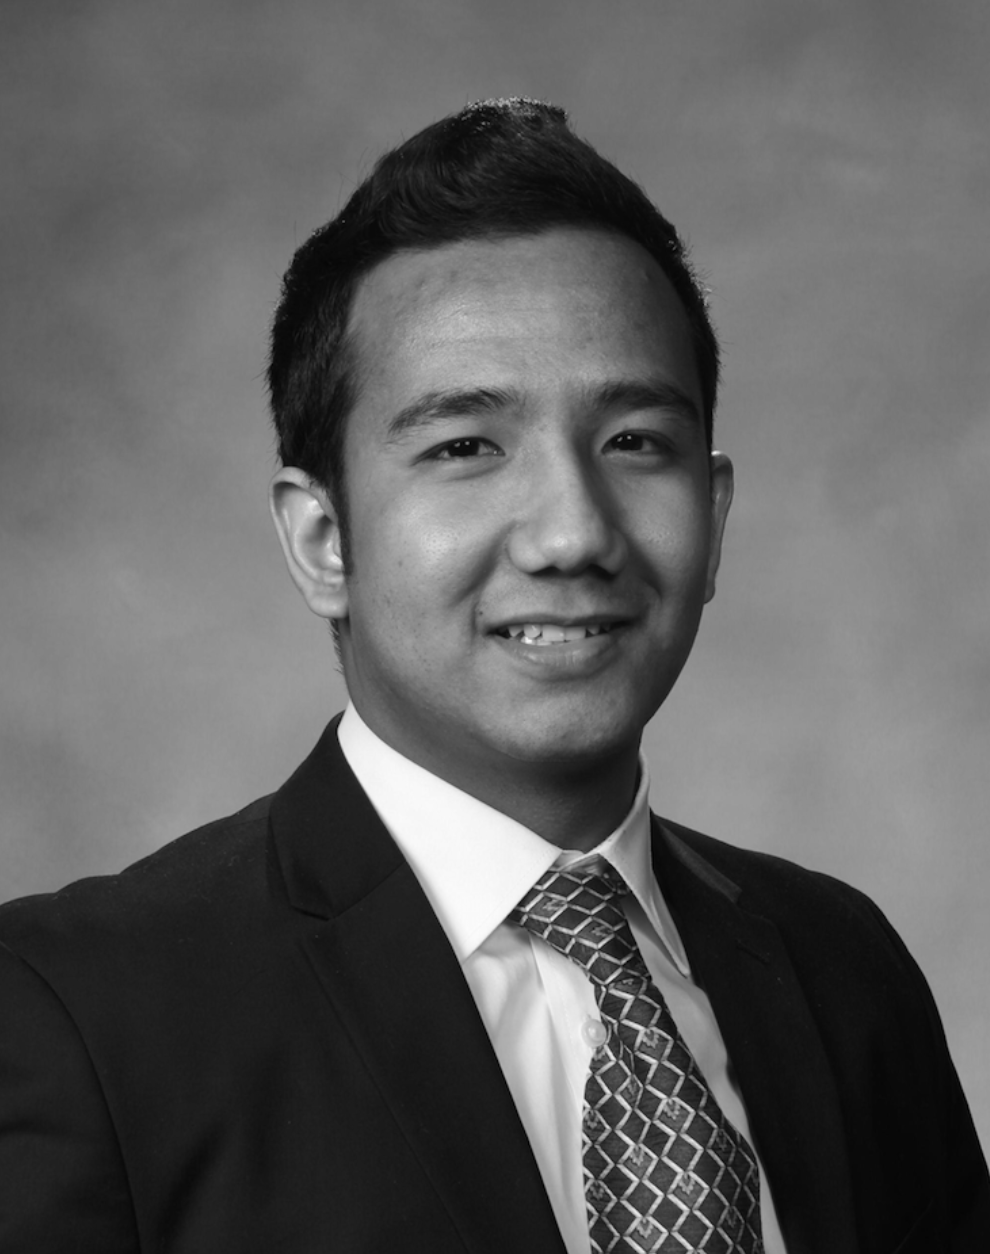
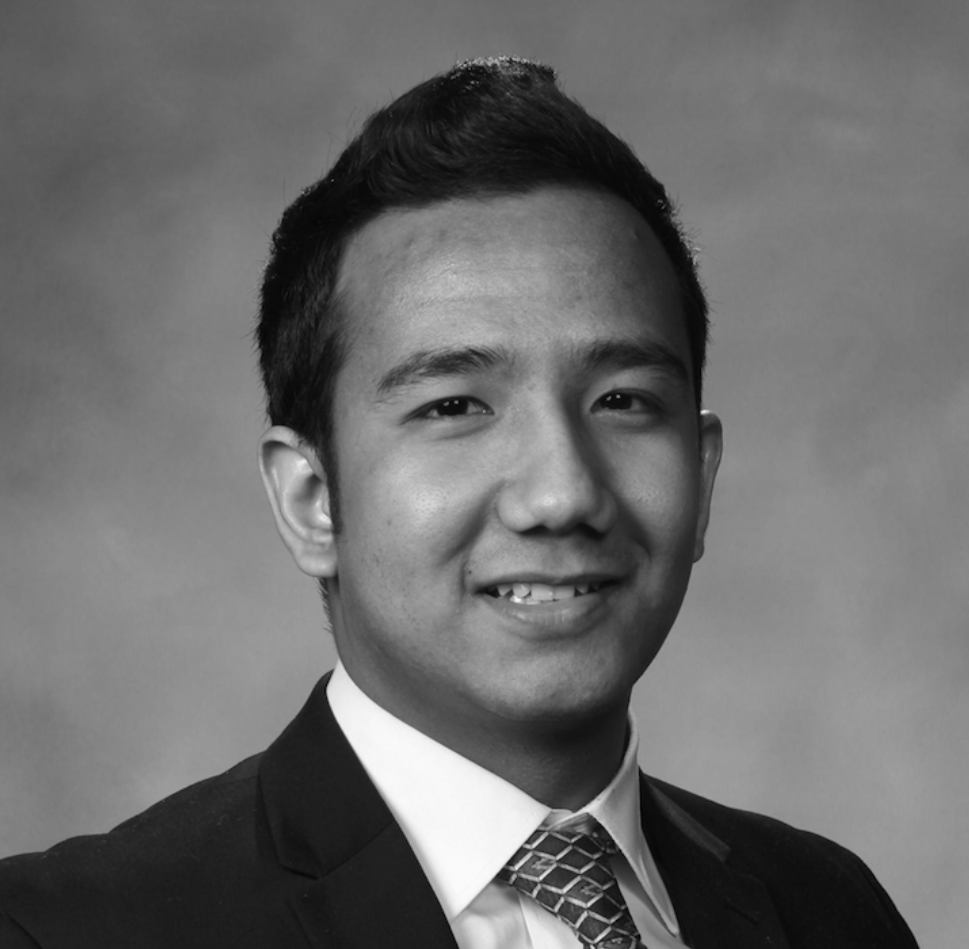
Image size updated

diff --git a/src/pages/index.jsx b/src/pages/index.jsx
@@ -15,7 +15,7 @@ const Home = () => {
             <img
               src={myImage}
               alt="landing-i"
-              className="absolute w-full aspect-[1/1.2] rounded-[4px] object-cover"
+              className="absolute w-full aspect-[1/1.1] rounded-[4px] object-cover"
             />
           </div>
 
